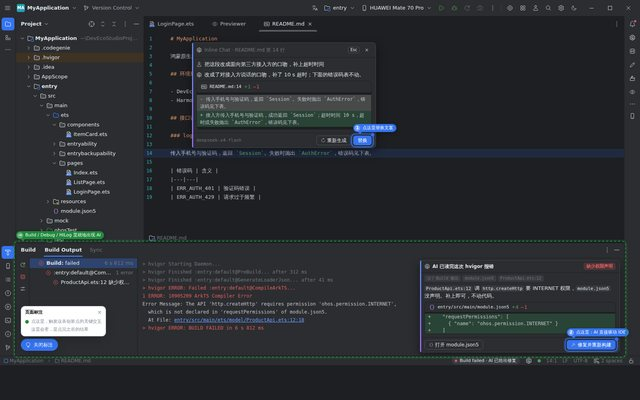
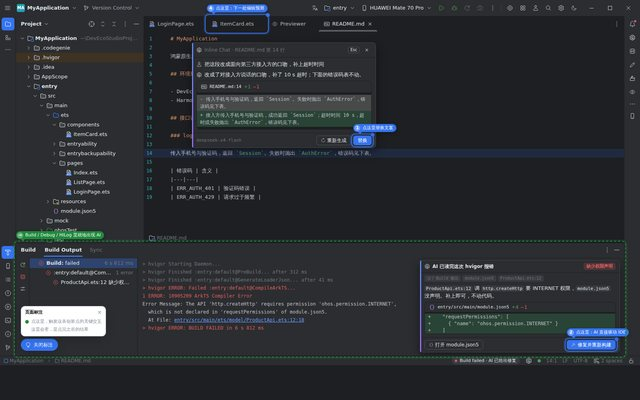
demo 05 新增「下一处编辑预测」：改一处类型，文件内与跨文件要跟着改的位置一起给出，Tab 逐处接受，本机模型离线可用
Claude-Session: https://claude.ai/code/session_01HsLiuXw9GEzdrquzWL26SL

Changed region(s): [[0.3125, 0.0, 0.5938, 0.09]]

diff --git a/demos/05-inline-chat-everywhere/index.html b/demos/05-inline-chat-everywhere/index.html
@@ -138,9 +138,96 @@
   /* Profiler */
   .prof{flex:1;display:grid;grid-template-columns:minmax(0,1fr) 440px;gap:10px;padding:8px 10px;min-height:0}
   .prof .dm-chart{min-height:0}
+
+  /* ===== 下一处编辑预测：ItemCard.ets ===== */
+  #code-nep{scrollbar-width:none;padding-right:18px}
+  #code-nep::-webkit-scrollbar{display:none}
+  .code .ln .nep-unused{opacity:.5}
+  .code .nep-type{cursor:text;border-radius:2px}
+  .code .nep-type:hover,.code .nep-type.sel{background:var(--ui-selection)}
+  .nep-caret{display:inline-block;width:2px;height:15px;margin-left:1px;vertical-align:-3px;background:var(--ed-text);animation:nepcaret 1s steps(1) infinite}
+  @keyframes nepcaret{50%{opacity:0}}
+  .code .nep-err{text-decoration:underline wavy var(--ui-error) 1px;text-underline-offset:3px;text-decoration-skip-ink:none}
+  .code .ln.vmod .g{box-shadow:inset -3px 0 0 var(--ui-file-modified)}
+  .code .ln .g .m .nep-gi{color:var(--ui-accent);cursor:pointer}
+  .code .ln.nep-on .nep-o{background:color-mix(in srgb,var(--ui-error) 16%,transparent);text-decoration:line-through;text-decoration-color:color-mix(in srgb,var(--ui-error) 75%,transparent);border-radius:2px}
+  .code .ln .nep-inlay{display:inline-flex;align-items:center;gap:3px;margin-left:14px;padding:0 6px;height:16px;line-height:16px;border-radius:8px;vertical-align:1px;font-family:var(--font-ui);font-size:11px;color:var(--ui-success);background:color-mix(in srgb,var(--ui-success) 12%,transparent);cursor:pointer}
+  .code .ln .nep-inlay svg.i{width:12px;height:12px}
+  .code .ln .nep-cb{display:inline-flex;align-items:center;gap:4px;margin-left:14px;padding:0 6px;height:16px;line-height:16px;border-radius:4px;vertical-align:1px;font-family:var(--font-ui);font-size:11px;color:var(--ui-fg);background:color-mix(in srgb,var(--ui-accent) 16%,transparent)}
+  .code .ln .nep-cb svg.i{width:12px;height:12px;color:var(--ui-accent)}
+  /* 幽灵行：不占行号，灰色是还没轮到的，带语法色的是当前这一处 */
+  .code .gl{display:flex;min-height:var(--lh-code);cursor:default}
+  .code .gl .g{width:58px;flex:none;background:var(--ed-gutter)}
+  .code .gl .t{flex:1;padding-left:8px;white-space:pre;color:var(--ed-comment)}
+  .code .gl:not(.on):not(.tb) .t *{color:inherit}
+  .code .gl .nep-n{background:color-mix(in srgb,var(--ui-success) 10%,transparent);border-radius:3px}
+  .code .gl.on,.code .gl.tb{background:color-mix(in srgb,var(--ui-accent) 8%,transparent)}
+  .code .gl.on .g,.code .gl.tb .g{box-shadow:inset -2px 0 0 var(--ui-accent)}
+  .code .gl.on .t{opacity:.88}
+  .code .gl.on .nep-n{background:color-mix(in srgb,var(--ui-success) 22%,transparent)}
+  .code .gl .nep-o2{text-decoration:line-through;opacity:.7}
+  .code .gl .nep-peek{display:inline-flex;align-items:center;gap:4px;height:16px;line-height:14px;padding:0 6px;border-radius:4px;border:1px dashed color-mix(in srgb,var(--ui-accent) 60%,transparent);font-family:var(--font-ui);font-size:11px;vertical-align:1px;color:var(--ui-fg-info)}
+  .code .gl .nep-peek svg.i{width:12px;height:12px}
+  .code .gl.in{animation:nepin .35s ease-out both;animation-delay:var(--d,0ms)}
+  @keyframes nepin{from{opacity:0;transform:translateX(-8px)}to{opacity:1;transform:none}}
+  .code .gl.tb .t{padding-left:calc(8px + var(--ind,0) * 1ch);display:flex;align-items:center}
+  .nep-tb{display:inline-flex;align-items:center;gap:6px;font-family:var(--font-ui);font-size:var(--fs-sm);line-height:var(--lh-sm);color:var(--ui-fg-info);white-space:nowrap}
+  .nep-k{display:inline-flex;align-items:center;gap:4px;height:20px;padding:0 6px 0 3px;border:0;border-radius:4px;background:transparent;color:var(--ui-fg);font:inherit;cursor:pointer}
+  .nep-k:hover{background:var(--ui-action-hover)}
+  .nep-k kbd{font-size:10px;line-height:14px;padding:0 4px}
+  .nep-chip{display:inline-flex;align-items:center;gap:4px;height:18px;padding:0 7px;border-radius:9px;background:var(--ui-tag-bg);color:var(--ui-fg);font-size:11px}
+  .nep-chip svg.i{width:12px;height:12px}
+  .nep-tag{display:inline-flex;align-items:center;height:18px;padding:0 6px;border-radius:4px;font-size:11px;font-weight:600;color:var(--ui-info);background:color-mix(in srgb,var(--ui-accent) 16%,transparent)}
+  .nep-idx{font-family:var(--font-code);font-size:11px}
+  /* 右侧滚动条：拇指 + 每一处的标记 */
+  .nep-ruler{position:absolute;top:0;right:0;bottom:0;width:12px;z-index:4}
+  .nep-ruler .thumb{position:absolute;left:3px;right:3px;border-radius:3px;background:color-mix(in srgb,var(--ui-fg) 20%,transparent);pointer-events:none}
+  .nep-ruler .mk{position:absolute;left:2px;right:2px;height:4px;margin-top:-2px;border:0;padding:0;border-radius:1px;background:var(--ui-accent);cursor:pointer}
+  .nep-ruler .mk.on{left:0;right:0;height:6px;margin-top:-3px;box-shadow:0 0 0 1px var(--ui-editor-bg)}
+  .nep-ruler .mk.a{background:var(--ui-success)}
+  .nep-ruler .mk.k{background:transparent;box-shadow:inset 0 0 0 1px var(--ui-fg-info)}
+  /* 编辑器右上角的小挂件：状态 + 模型来源 */
+  .nep-w{position:absolute;top:6px;right:20px;z-index:5;display:flex;align-items:center;gap:6px;height:28px;padding:0 3px 0 8px;border:1px solid var(--ui-popup-border);border-radius:var(--arc);background:var(--ui-popup-bg);box-shadow:0 2px 10px rgba(0,0,0,.14);font-size:var(--fs-sm);color:var(--ui-fg-info);white-space:nowrap}
+  .nep-w .st{display:inline-flex;align-items:center;gap:6px}
+  .nep-w .st b{color:var(--ui-fg);font-weight:600}
+  .nep-w .st svg.i{width:14px;height:14px;color:var(--ui-accent)}
+  .nep-w .st.done svg.i{color:var(--ui-success)}
+  .nep-w .nav{display:inline-flex}
+  .nep-w .abtn{width:20px;height:20px}
+  .nep-w .abtn svg.i{width:14px;height:14px}
+  .nep-w .sep{width:1px;height:14px;background:var(--ui-border)}
+  .nep-src{display:inline-flex;gap:1px;padding:1px;border-radius:6px;background:var(--ui-tag-bg)}
+  .nep-src button{display:inline-flex;align-items:center;gap:4px;height:20px;padding:0 8px;border:0;border-radius:5px;background:transparent;color:var(--ui-fg-info);font:inherit;font-size:11px;cursor:pointer}
+  .nep-src button svg.i{width:12px;height:12px}
+  .nep-src button.on{background:var(--ui-popup-bg);color:var(--ui-fg);box-shadow:0 0 0 1px var(--ui-component-border)}
+  .nep-more{position:absolute;right:20px;bottom:10px;z-index:5;display:inline-flex;align-items:center;gap:4px;height:24px;padding:0 10px 0 6px;border-radius:12px;border:1px solid color-mix(in srgb,var(--ui-accent) 55%,transparent);background:var(--ui-popup-bg);color:var(--ui-fg);font:inherit;font-size:var(--fs-sm);box-shadow:var(--ui-shadow);cursor:pointer}
+  .nep-more svg.i{width:14px;height:14px;color:var(--ui-accent)}
+  /* 全部走完后的结果 */
+  .nep-done{position:absolute;right:20px;bottom:12px;z-index:6;width:380px;border:1px solid var(--ui-popup-border);border-radius:var(--arc);background:var(--ui-popup-bg);box-shadow:var(--ui-shadow);font-size:var(--fs-para);line-height:var(--lh-para);overflow:hidden}
+  .nep-done::before{content:"";position:absolute;left:0;top:0;bottom:0;width:3px;background:var(--ui-success)}
+  .nep-done.part::before{background:var(--ui-warning)}
+  .nep-done .hd{display:flex;align-items:center;gap:6px;padding:8px 8px 4px 12px}
+  .nep-done .hd svg.i{width:14px;height:14px;color:var(--ui-success);flex:none}
+  .nep-done.part .hd svg.i{color:var(--ui-warning)}
+  .nep-done .hd b{font-weight:600;color:var(--ui-fg)}
+  .nep-done .hd .grow{flex:1}
+  .nep-done .hd .abtn svg.i{color:var(--ui-fg-info)}
+  .nep-done .bd{padding:2px 12px 8px;display:flex;flex-direction:column;gap:4px;font-size:var(--fs-sm);line-height:var(--lh-sm);color:var(--ui-fg)}
+  .nep-done .bd > div{display:flex;align-items:center;gap:6px}
+  .nep-done .bd svg.i{width:12px;height:12px;flex:none}
+  .nep-done .bd code{font-family:var(--font-code);font-size:11px;background:var(--ui-tag-bg);padding:0 4px;border-radius:4px}
+  .nep-done .bd .sk{color:color-mix(in srgb,var(--ui-warning) 75%,var(--ui-fg))}
+  .nep-done .bd .dm-muted{color:var(--ui-fg-info)}
+  .nep-done .ft{display:flex;gap:6px;padding:8px 12px;border-top:1px solid var(--ui-border)}
+  .nep-done .ft .btn svg.i{width:12px;height:12px}
 </style>
 </head>
 <body>
+<svg width="0" height="0" style="position:absolute" aria-hidden="true"><defs>
+  <symbol id="i-nep" viewBox="0 0 16 16"><path d="M1.5 8h8.5M7 4.5 10.5 8 7 11.5M13.5 3.5v9" stroke="currentColor" stroke-width="1.3" stroke-linecap="round" stroke-linejoin="round" fill="none"/></symbol>
+  <symbol id="i-chevU" viewBox="0 0 16 16"><path d="M4 10l4-4 4 4" stroke="currentColor" stroke-linecap="round" stroke-linejoin="round" fill="none"/></symbol>
+  <symbol id="i-chip" viewBox="0 0 16 16"><rect x="4" y="4" width="8" height="8" rx="1.5" stroke="currentColor" fill="none"/><rect x="6.5" y="6.5" width="3" height="3" rx=".5" fill="currentColor"/><path d="M6.5 1.5v2M9.5 1.5v2M6.5 12.5v2M9.5 12.5v2M1.5 6.5h2M1.5 9.5h2M12.5 6.5h2M12.5 9.5h2" stroke="currentColor" stroke-linecap="round"/></symbol>
+</defs></svg>
 <div class="ide" id="ide" data-ide-theme="dark" data-left="project" data-right="none" data-bottom="build" role="application" aria-label="DevEco Studio">
   <div class="body">
     <div class="tw tw-left">
@@ -221,6 +308,24 @@
           </div>
         </div>
       </div>
+
+      <!-- ④ 下一处编辑预测：ItemCard.ets 改了一处类型，文件里其余要跟着改的位置一起给出 -->
+      <div class="code-wrap" data-for-file="ItemCard.ets" hidden>
+        <div class="code" id="code-nep"></div>
+        <div class="nep-ruler" id="nep-ruler"></div>
+        <div class="nep-w" id="nep-w">
+          <span class="st" id="nep-st"></span>
+          <span class="nav" id="nep-nav" hidden><button class="abtn" id="nep-prev" title="上一处|Alt+["><svg class="i"><use href="#i-chevU"/></svg></button><button class="abtn" id="nep-next" title="下一处|Alt+]"><svg class="i"><use href="#i-chevD"/></svg></button></span>
+          <span class="sep"></span>
+          <span class="nep-src" role="radiogroup" aria-label="补全来源">
+            <button class="on" data-src="local" role="radio" title="端侧 ArkTS / ArkUI 专项模型|NPU · 代码不出本机"><svg class="i"><use href="#i-chip"/></svg>本机模型 · 离线</button>
+            <button data-src="cloud" role="radio" title="deepseek-v4-flash|跨模块大改时更稳"><svg class="i"><use href="#i-cloud"/></svg>云端模型</button>
+          </span>
+        </div>
+        <button class="nep-more" id="nep-more" hidden></button>
+        <div class="nep-done" id="nep-done" hidden></div>
+      </div>
+      <div class="code-wrap" data-for-file="CartItem.ets" hidden><div class="code" id="code-cart"></div></div>
 
       <!-- AI 驱动 IDE 打开的文件 -->
       <div class="code-wrap" data-for-file="module.json5" hidden><div class="code" id="code-json"></div></div>
@@ -364,6 +469,7 @@
   document.getElementById('tree-slot').innerHTML=DemoFrame.tree({sel:'README.md'});
   document.getElementById('tabs').insertAdjacentHTML('afterbegin',DemoFrame.tabs([
     {file:'LoginPage.ets'},
+    {file:'ItemCard.ets'},
     {file:'Previewer',icon:'#i-tw-preview'},
     {file:'README.md',icon:'#i-md',on:true}
   ]));
@@ -568,7 +674,268 @@
     var l=$('#code-detail .ln[data-ln="'+n+'"]');l.classList.add('cur','hl-warn');
     var p=$('#status-pos');if(p)p.textContent=n+':25';
   });
-DemoGuide.init([{"target": "#md-apply", "kind": "click", "pos": "top", "label": "点这里替换文案"}, {"target": "#b-fix,#go-debug,#ask-undef,#add-cbp", "kind": "click", "pos": "top", "label": "点这里：AI 直接驱动 IDE"}, {"target": ".tw-bottom", "kind": "change", "pos": "top", "label": "Build / Debug / HiLog 里就地出现 AI"}]);
+
+  /* =================== ④ 下一处编辑预测：改一处类型，文件里其余要跟着改的位置一起给出 =================== */
+  F['ItemCard.ets']={path:['entry','src','main','ets','components'],crumbs:['ItemCard','build'],lines:[]};
+  F['CartItem.ets']={path:['entry','src','main','ets','model'],crumbs:['CartItem','price'],lines:[]};
+  var TP='<span class="k">this</span>.<span class="p">price</span>',TC='<span class="k">this</span>.<span class="p">count</span>',TV='<span class="k">this</span>.<span class="p">value</span>';
+  var ERR_ASSIGN="Type 'Price' is not assignable to type 'number'";
+  /* 4 处：本文件 3 处 + CartItem.ets 1 处；按在文件里的位置排 */
+  var SG=[
+    {ln:14,ind:6,tag:'$r 资源',why:'string.json 里已有 cart_total「合计 %s」，不再写死「合计 ¥」',
+      neu:'      <span class="f">Text</span>(<span class="nep-n"><span class="f">$r</span>(<span class="s">\'app.string.cart_total\'</span>, '+TP+'.<span class="f">times</span>('+TC+').<span class="f">format</span>())</span>)'},
+    {ln:17,ind:8,x:1,tag:'跨文件',why:'CartStore.add 收的是 CartItem，它的 price 还是 number',
+      neu:'        <span class="nep-peek">'+ic('i-ets')+'CartItem.ets:5</span>  <span class="p">price</span>: <span class="nep-o2">number</span> <span class="nep-n"><span class="ty">Price</span></span>;'},
+    {ln:25,ind:2,tag:'ArkUI 装饰器',why:'Price 是 @Observed 类，改用 @ObjectLink 接，且不能带初始值',
+      neu:'  <span class="nep-n"><span class="m">@ObjectLink</span> <span class="p">value</span>: <span class="ty">Price</span></span>;'},
+    {ln:28,ind:4,tag:'Price API',why:'Price.format() 自带 ¥ 和两位小数（model/Price.ets:14）',
+      neu:'    <span class="f">Text</span>(<span class="nep-n">'+TV+'.<span class="f">format</span>()</span>).<span class="f">fontSize</span>(<span class="n">18</span>).<span class="f">fontColor</span>(<span class="s">\'#E84026\'</span>)'}
+  ];
+  var SRC={
+    local:{chip:ic('i-chip')+'本机模型 · 离线',cap:'本机模型 · 离线',ms:'38 ms',done:'本机模型 · 离线，没联网'},
+    cloud:{chip:ic('i-cloud')+'云端模型 · deepseek-v4-flash',cap:'云端模型',ms:'410 ms',done:'云端模型 · deepseek-v4-flash'}
+  };
+  /* phase: idle → typing → predicting → pending → done；s[i]: p 待定 / a 已接受 / k 已跳过 */
+  var NEP={phase:'idle',src:'local',act:-1,cur:7,s:['p','p','p','p']};
+
+  function nepLines(){
+    var ty=NEP.phase!=='idle',s=NEP.s,A=function(i){return s[i]==='a'};
+    var E=function(x,m){return ty?'<span class="nep-err" title="'+m+'">'+x+'</span>':x};
+    return [
+      [(ty?'':'<span class="nep-unused">')+'<span class="k">import</span> { <span class="ty">Price</span> } <span class="k">from</span> <span class="s">\'../model/Price\'</span>;'+(ty?'':'</span>')],
+      ['<span class="k">import</span> { <span class="ty">CartStore</span> } <span class="k">from</span> <span class="s">\'../model/CartStore\'</span>;'],
+      [''],
+      ['<span class="m">@Component</span>'],
+      ['<span class="k">export</span> <span class="k">struct</span> <span class="ty">ItemCard</span> {',{fold:1}],
+      ['  <span class="m">@Prop</span> <span class="p">title</span>: <span class="k">string</span> = <span class="s">\'\'</span>;'],
+      [ty?'  <span class="m">@State</span> <span class="p">price</span>: <span class="ty">Price</span> = <span class="k">new</span> <span class="ty">Price</span>(<span class="n">0</span>);'
+         :'  <span class="m">@State</span> <span class="p">price</span>: <span class="nep-type" id="nep-type"><span class="k">number</span> = <span class="n">0</span></span>;'],
+      ['  <span class="m">@State</span> <span class="p">count</span>: <span class="k">number</span> = <span class="n">1</span>;'],
+      [''],
+      ['  <span class="f">build</span>() {',{fold:1,at:1}],
+      ['    <span class="f">Column</span>({ <span class="p">space</span>: <span class="n">8</span> }) {',{fold:1}],
+      ['      <span class="f">Text</span>(<span class="k">this</span>.<span class="p">title</span>).<span class="f">fontSize</span>(<span class="n">16</span>).<span class="f">maxLines</span>(<span class="n">2</span>)'],
+      ['      <span class="f">PriceLabel</span>({ <span class="p">value</span>: '+(A(2)?TP:E(TP,ERR_ASSIGN))+' })'],
+      [A(0)?SG[0].neu:'      <span class="f">Text</span>(<span class="nep-o"><span class="s">`合计 ¥${</span>('+E(TP+' * '+TC,"Operator '*' cannot be applied to types 'Price' and 'number'")+').<span class="f">toFixed</span>(<span class="n">2</span>)<span class="s">}`</span></span>)'],
+      ['        .<span class="f">fontSize</span>(<span class="n">12</span>).<span class="f">fontColor</span>(<span class="f">$r</span>(<span class="s">\'app.color.text_secondary\'</span>))'],
+      ['      <span class="f">Button</span>(<span class="s">\'加入购物车\'</span>).<span class="f">width</span>(<span class="s">\'100%\'</span>)'],
+      ['        .<span class="f">onClick</span>(() =&gt; <span class="ty">CartStore</span>.<span class="f">add</span>({ <span class="p">title</span>: <span class="k">this</span>.<span class="p">title</span>, <span class="p">price</span>: '+(A(1)?TP:E(TP,ERR_ASSIGN))+', <span class="p">count</span>: '+TC+' }))'
+        +(A(1)?'<span class="nep-inlay" data-open-cart="1" title="打开 CartItem.ets">'+ic('i-checkS')+'已同步 CartItem.ets:5</span>':'')],
+      ['    }'],
+      ['    .<span class="f">padding</span>(<span class="n">12</span>)'],
+      ['  }'],
+      ['}'],
+      [''],
+      ['<span class="m">@Component</span>'],
+      ['<span class="k">struct</span> <span class="ty">PriceLabel</span> {',{fold:1}],
+      [A(2)?SG[2].neu:'  <span class="nep-o"><span class="m">@Prop</span> <span class="p">value</span>: <span class="k">number</span> = <span class="n">0</span></span>;'],
+      [''],
+      ['  <span class="f">build</span>() {',{fold:1}],
+      [A(3)?SG[3].neu:'    <span class="f">Text</span>(<span class="nep-o"><span class="s">`¥${</span>'+TV+'.'+(A(2)?'<span class="nep-err" title="Property \'toFixed\' does not exist on type \'Price\'"><span class="f">toFixed</span></span>':'<span class="f">toFixed</span>')+'(<span class="n">2</span>)<span class="s">}`</span></span>).<span class="f">fontSize</span>(<span class="n">18</span>).<span class="f">fontColor</span>(<span class="s">\'#E84026\'</span>)'],
+      ['  }'],
+      ['}']
+    ];
+  }
+  /* 编译错误：改完类型后第 13、14、17 行报错；第 25 行改成 Price 之后第 28 行的 toFixed 也会报 */
+  function nepErrs(){
+    if(NEP.phase==='idle')return 0;
+    var s=NEP.s,n=0;if(s[2]!=='a')n++;if(s[0]!=='a')n++;if(s[1]!=='a')n++;if(s[2]==='a'&&s[3]!=='a')n++;return n;
+  }
+  function nepCount(){
+    var c={p:0,pin:0,px:0,a:0,k:0};
+    SG.forEach(function(g,i){var st=NEP.s[i];if(st==='p'){c.p++;if(g.x)c.px++;else c.pin++;}else if(st==='a')c.a++;else c.k++;});
+    return c;
+  }
+  function nepNext(i){for(var k=1;k<SG.length;k++){var j=(i+k)%SG.length;if(NEP.s[j]==='p')return j;}return -1;}
+
+  function nepTb(i,anim){
+    var g=SG[i],last=nepNext(i)<0;
+    return '<div class="gl tb'+(anim?' in':'')+'" style="--ind:'+g.ind+';--d:'+(i*110+80)+'ms"><span class="g"></span><span class="t"><span class="nep-tb">'
+      +'<button class="nep-k" id="nep-tab" title="接受这一处|Tab"><kbd>Tab</kbd>'+(last?'接受':'接受并跳到下一处')+'</button>'
+      +'<button class="nep-k" id="nep-esc" title="跳过这一处|Esc"><kbd>Esc</kbd>跳过</button>'
+      +'<span class="nep-chip">'+SRC[NEP.src].chip+'</span>'
+      +'<span class="nep-tag">'+g.tag+'</span><span>'+g.why+'</span>'
+      +'<span class="nep-idx">'+(i+1)+'/'+SG.length+'</span></span></span></div>';
+  }
+  function nepRender(o){
+    o=o||{};
+    var code=$('#code-nep'),top=code.scrollTop,live=NEP.phase==='pending';
+    F['ItemCard.ets'].lines=nepLines();
+    code.innerHTML=DemoFrame.code('ItemCard.ets',{cur:NEP.cur});
+    if(NEP.phase!=='idle')$('.ln[data-ln="7"]',code).classList.add('vmod');
+    SG.forEach(function(g,i){
+      var st=NEP.s[i],ln=$('.ln[data-ln="'+g.ln+'"]',code);
+      if(st==='a'){ln.classList.add('vmod');return;}
+      if(!live||st!=='p')return;
+      var on=i===NEP.act;
+      ln.classList.add(on?'nep-on':'nep-p');
+      $('.g .m',ln).innerHTML='<svg class="nep-gi" data-sg="'+i+'"><use href="#i-nep"/></svg>';
+      var h='<div class="gl'+(on?' on':'')+(o.anim?' in':'')+'" data-sg="'+i+'" style="--d:'+(i*110)+'ms"><span class="g"></span><span class="t">'+g.neu+'</span></div>';
+      if(on)h+=nepTb(i,o.anim);
+      ln.insertAdjacentHTML('afterend',h);
+    });
+    code.scrollTop=top;
+    nepWidget();nepRuler();nepMore();
+  }
+  function nepWidget(){
+    var st=$('#nep-st'),P=NEP.phase,c=nepCount();
+    st.className='st'+(P==='done'?' done':'');
+    if(P==='predicting')st.innerHTML='<span class="spin"></span><b>下一处编辑</b><span>'+SRC[NEP.src].cap+' 预测中…</span>';
+    else if(P==='pending'){
+      var parts=[];if(c.pin)parts.push('本文件 '+c.pin);if(c.px)parts.push('CartItem.ets '+c.px);
+      st.innerHTML=ic('i-nep')+'<b>还有 '+c.p+' 处</b><span>'+parts.join(' · ')+'</span>';
+    }
+    else if(P==='done')st.innerHTML=(c.a?ic('i-checkS'):ic('i-info'))+'<b>改了 '+c.a+' 处</b>'+(c.k?'<span>跳过 '+c.k+'</span>':'');
+    else st.innerHTML=ic('i-nep')+'<b>下一处编辑</b><span>就绪</span>';
+    $('#nep-nav').hidden=P!=='pending';
+    $$('#nep-w [data-src]').forEach(function(b){var on=b.dataset.src===NEP.src;b.classList.toggle('on',on);b.setAttribute('aria-checked',on?'true':'false')});
+  }
+  /* 滚动条：拇指跟着滚动，每一处一个标记（待定蓝、已接受绿、跳过空心） */
+  function nepRuler(){
+    var code=$('#code-nep'),r=$('#nep-ruler'),H=r.clientHeight,SH=code.scrollHeight;
+    if(!H||!SH){r.innerHTML='';return;}
+    var cTop=code.getBoundingClientRect().top;
+    var h='<i class="thumb" style="top:'+(code.scrollTop/SH*H).toFixed(1)+'px;height:'+(code.clientHeight/SH*H).toFixed(1)+'px"></i>';
+    if(NEP.phase==='pending'||NEP.phase==='done')SG.forEach(function(g,i){
+      var st=NEP.s[i],ln=$('.ln[data-ln="'+g.ln+'"]',code);if(!ln)return;
+      var y=(ln.getBoundingClientRect().top-cTop+code.scrollTop+11)/SH*H;
+      var cls=st==='a'?'a':(st==='k'?'k':(i===NEP.act?'on':''));
+      var tip='第 '+g.ln+' 行'+(g.x?' → CartItem.ets:5':'')+' · '+g.tag+'|'+(st==='a'?'已接受':(st==='k'?'已跳过':'待定'));
+      h+='<button class="mk '+cls+'" data-sg="'+i+'" style="top:'+y.toFixed(1)+'px" title="'+tip+'"></button>';
+    });
+    r.innerHTML=h;
+  }
+  /* 屏幕外还有几处：底部给个提示，点一下跳过去 */
+  function nepMore(){
+    var b=$('#nep-more'),code=$('#code-nep'),cr=code.getBoundingClientRect();
+    if(NEP.phase!=='pending'||!cr.height){b.hidden=true;return;}
+    var below=[],above=[];
+    SG.forEach(function(g,i){
+      if(NEP.s[i]!=='p')return;
+      var r=$('.ln[data-ln="'+g.ln+'"]',code).getBoundingClientRect();
+      if(r.top>cr.bottom-22)below.push(i);else if(r.bottom<cr.top+4)above.push(i);
+    });
+    var L=function(a){return a.map(function(i){return SG[i].ln}).join('、')};
+    if(below.length){b.innerHTML=ic('i-chevD')+'下方第 '+L(below)+' 行还有 '+below.length+' 处';b.dataset.sg=below[0];b.hidden=false;}
+    else if(above.length){b.innerHTML=ic('i-chevU')+'上方第 '+L(above)+' 行还有 '+above.length+' 处';b.dataset.sg=above[above.length-1];b.hidden=false;}
+    else b.hidden=true;
+  }
+  function nepReveal(){
+    var code=$('#code-nep'),ln=$('.ln.nep-on',code),tb=$('.gl.tb',code);if(!ln||!code.clientHeight)return;
+    var cr=code.getBoundingClientRect(),a=ln.getBoundingClientRect(),b=(tb||ln).getBoundingClientRect();
+    if(a.top<cr.top+36||b.bottom>cr.bottom-40)code.scrollTo({top:code.scrollTop+a.top-cr.top-Math.round(cr.height*.35),behavior:'smooth'});
+  }
+  function nepCap(){
+    var P=NEP.phase,S=SRC[NEP.src],c=nepCount(),e=nepErrs();
+    if(P==='predicting')cap('<span class="dm-capsule wait"><span class="spin" style="width:10px;height:10px"></span>下一处编辑 · '+S.cap+' · 预测中</span>');
+    else if(P==='pending')cap('<span class="dm-capsule"><span class="dm-dot info"></span>下一处编辑 · '+S.cap+' · '+S.ms+' · 还有 '+c.p+' 处</span>');
+    else if(P==='done')cap('<span class="dm-capsule"><span class="dm-dot '+(e?'warn':'ok')+'"></span>下一处编辑 · 改了 '+c.a+' 处 · '+(e?e+' 个错误':'0 错误')+'</span>');
+  }
+  function nepDone(){
+    var d=$('#nep-done'),acc=[],sk=[],xf=false,e=nepErrs();
+    SG.forEach(function(g,i){if(NEP.s[i]==='a'){acc.push(g);if(g.x)xf=true;}else if(NEP.s[i]==='k')sk.push(g);});
+    var inF=acc.filter(function(g){return !g.x}).map(function(g){return g.ln});
+    d.classList.toggle('part',!!sk.length);
+    d.innerHTML='<div class="hd">'+(acc.length?ic('i-checkS'):ic('i-info'))+'<b>'+(acc.length?'改了 '+acc.length+' 处':'这 '+SG.length+' 处都跳过了')+'</b>'+(xf?'<span class="dm-muted">1 处跨文件在 CartItem.ets</span>':'')
+      +'<span class="grow"></span><button class="abtn" id="nep-done-x" title="Close|Esc">'+ic('i-closeS')+'</button></div>'
+      +'<div class="bd">'
+      +(inF.length?'<div>'+ic('i-ets')+'<span>ItemCard.ets · 第 '+inF.join('、')+' 行</span></div>':'')
+      +(xf?'<div>'+ic('i-ets')+'<span>CartItem.ets:5 · <code>price: number</code> → <code>Price</code></span></div>':'')
+      +(sk.length?'<div class="sk">'+ic('i-warn')+'<span>跳过 '+sk.length+' 处 · 第 '+sk.map(function(g){return g.ln}).join('、')+' 行</span></div>':'')
+      +'<div class="dm-muted"><span>编译错误 3 → '+e+' · '+SRC[NEP.src].done+'</span></div></div>'
+      +'<div class="ft">'+(xf?'<button class="btn primary" id="nep-open-cart">'+ic('i-ets')+'打开 CartItem.ets</button>':'')
+      +'<button class="btn" id="nep-undo">'+ic('i-undo')+(acc.length?'撤销这 '+acc.length+' 处':'重新给建议')+'</button></div>';
+    d.hidden=false;
+  }
+  function cartRender(){
+    var ok=NEP.s[1]==='a';
+    F['CartItem.ets'].lines=[
+      ['<span class="k">import</span> { <span class="ty">Price</span> } <span class="k">from</span> <span class="s">\'./Price\'</span>;'],
+      [''],
+      ['<span class="k">export</span> <span class="k">interface</span> <span class="ty">CartItem</span> {',{fold:1}],
+      ['  <span class="p">title</span>: <span class="k">string</span>;'],
+      ['  <span class="p">price</span>: '+(ok?'<span class="ty">Price</span>':'<span class="k">number</span>')+';'],
+      ['  <span class="p">count</span>: <span class="k">number</span>;'],
+      ['  <span class="p">discount</span>?: <span class="ty">Price</span>;'],
+      ['}']
+    ];
+    $('#code-cart').innerHTML=DemoFrame.code('CartItem.ets',{cur:5});
+    if(ok){var l=$('#code-cart .ln[data-ln="5"]');l.classList.add('vmod','hl-ok');$('.t',l).insertAdjacentHTML('beforeend','<span class="nep-cb">'+ic('i-nep')+'下一处编辑 · 跟着 ItemCard.ets:7 改的</span>');}
+  }
+
+  function nepGo(i){if(NEP.phase!=='pending'||NEP.s[i]!=='p')return;NEP.act=i;NEP.cur=SG[i].ln;nepRender();nepReveal();}
+  function nepStep(d){var n=SG.length;for(var k=1;k<n;k++){var j=((NEP.act+d*k)%n+n)%n;if(NEP.s[j]==='p'){nepGo(j);return;}}}
+  function nepResolve(mark){
+    if(NEP.phase!=='pending'||NEP.act<0)return;
+    var i=NEP.act,g=SG[i];NEP.s[i]=mark;NEP.cur=g.ln;
+    var n=nepNext(i);NEP.act=n;if(n<0)NEP.phase='done';
+    nepRender();
+    if(mark==='a'){var l=$('#code-nep .ln[data-ln="'+g.ln+'"]');l.classList.add('hl-ok');setTimeout(function(){l.classList.remove('hl-ok')},1400);if(g.x)cartRender();}
+    var p=$('#status-pos');if(p)p.textContent=g.ln+':'+(g.ind+1);
+    if(NEP.phase==='done')nepDone();else nepReveal();
+    nepCap();
+  }
+  function nepUndo(){
+    NEP.s=['p','p','p','p'];NEP.phase='pending';NEP.act=0;NEP.cur=7;
+    $('#nep-done').hidden=true;nepRender();cartRender();nepReveal();nepCap();
+  }
+  function nepSrc(v){
+    if(NEP.src===v)return;NEP.src=v;
+    if(NEP.phase==='pending'){
+      NEP.phase='predicting';nepRender();nepCap();
+      setTimeout(function(){NEP.phase='pending';nepRender({anim:1});nepCap();nepReveal();},500);
+    }else{nepWidget();nepCap();}
+  }
+  /* 用户自己的那一处：把 number = 0 改成 Price = new Price(0) */
+  var TYPED=[['Price','ty'],[' = ',''],['new','k'],[' ',''],['Price','ty'],['(',''],['0','n'],[')','']];
+  function typedHTML(k){var h='';TYPED.forEach(function(s){if(k<=0)return;var t=s[0].slice(0,k);k-=s[0].length;h+=s[1]?'<span class="'+s[1]+'">'+t+'</span>':t;});return h;}
+  function nepType(){
+    if(NEP.phase!=='idle')return;
+    NEP.phase='typing';
+    var t=$('#nep-type'),p=$('#status-pos'),total=TYPED.map(function(s){return s[0]}).join('').length;
+    t.removeAttribute('id');t.classList.add('sel');
+    setTimeout(function(){
+      var k=0,iv=setInterval(function(){
+        k++;t.classList.remove('sel');t.innerHTML=typedHTML(k)+'<span class="nep-caret"></span>';if(p)p.textContent='7:'+(17+k);
+        if(k<total)return;
+        clearInterval(iv);
+        setTimeout(function(){
+          NEP.phase='predicting';nepRender();nepCap();
+          setTimeout(function(){NEP.phase='pending';NEP.act=0;nepRender({anim:1});nepCap();},650);
+        },220);
+      },35);
+    },300);
+  }
+
+  nepRender();cartRender();
+  $('#code-nep').addEventListener('scroll',function(){nepRuler();nepMore();});
+  window.addEventListener('resize',function(){nepRuler();nepMore();});
+  $('#ide').addEventListener('click',function(e){var tb=e.target.closest('.tab[data-file="ItemCard.ets"]');if(!tb)return;tb.setAttribute('data-seen','1');setTimeout(function(){nepRuler();nepMore();nepReveal();},0);});
+  document.addEventListener('click',function(e){
+    var t=e.target,wb=t.closest('#nep-w button');
+    if(wb)wb.blur();   /* 挂件里的按钮点完不留焦点，后面按 Tab 才不会画出焦点框 */
+    if(t.closest('#nep-type')){nepType();return;}
+    if(t.closest('#nep-tab')){nepResolve('a');return;}
+    if(t.closest('#nep-esc')){nepResolve('k');return;}
+    var s=t.closest('#nep-w [data-src]');if(s){nepSrc(s.dataset.src);return;}
+    if(t.closest('#nep-next')){nepStep(1);return;}
+    if(t.closest('#nep-prev')){nepStep(-1);return;}
+    var g=t.closest('#code-nep [data-sg], #nep-ruler [data-sg], #nep-more');if(g){nepGo(+g.dataset.sg);return;}
+    if(t.closest('#nep-open-cart, [data-open-cart]')){cartRender();openTab('CartItem.ets','CartItem.ets');var p=$('#status-pos');if(p)p.textContent='5:10';return;}
+    if(t.closest('#nep-undo')){nepUndo();return;}
+    if(t.closest('#nep-done-x')){$('#nep-done').hidden=true;return;}
+  });
+  /* Tab 接受并跳下一处、Esc 跳过、Alt+[ / Alt+] 前后翻；捕获阶段拦下，不让 Tab 挪焦点、Esc 顺带收起页面标注 */
+  window.addEventListener('keydown',function(e){
+    var w=$('[data-for-file="ItemCard.ets"]');if(!w||w.hidden)return;
+    if(NEP.phase==='pending'){
+      if(e.key==='Tab'&&!e.shiftKey&&!e.altKey&&!e.ctrlKey){e.preventDefault();e.stopPropagation();nepResolve('a');}
+      else if(e.key==='Escape'){e.preventDefault();e.stopPropagation();nepResolve('k');}
+      else if(e.altKey&&(e.key===']'||e.key==='[')){e.preventDefault();nepStep(e.key===']'?1:-1);}
+    }else if(NEP.phase==='done'&&e.key==='Escape'&&!$('#nep-done').hidden){e.stopPropagation();$('#nep-done').hidden=true;}
+  },true);
+
+DemoGuide.init([{"target": "#md-apply", "kind": "click", "pos": "top", "label": "点这里替换文案"}, {"target": "#b-fix,#go-debug,#ask-undef,#add-cbp", "kind": "click", "pos": "top", "label": "点这里：AI 直接驱动 IDE"}, {"target": ".tw-bottom", "kind": "change", "pos": "top", "label": "Build / Debug / HiLog 里就地出现 AI"}, {"target": ".tab[data-file=\"ItemCard.ets\"]:not(.on):not([data-seen])", "kind": "click", "pos": "top", "label": "点这里：下一处编辑预测"}, {"target": "#nep-type", "kind": "click", "pos": "right", "label": "点这里：把 number 改成 Price"}, {"target": ".gl.tb .nep-tb", "kind": "click", "pos": "right", "label": "按 Tab 接受，Esc 跳过"}]);
 })();
 </script>
 </body>
